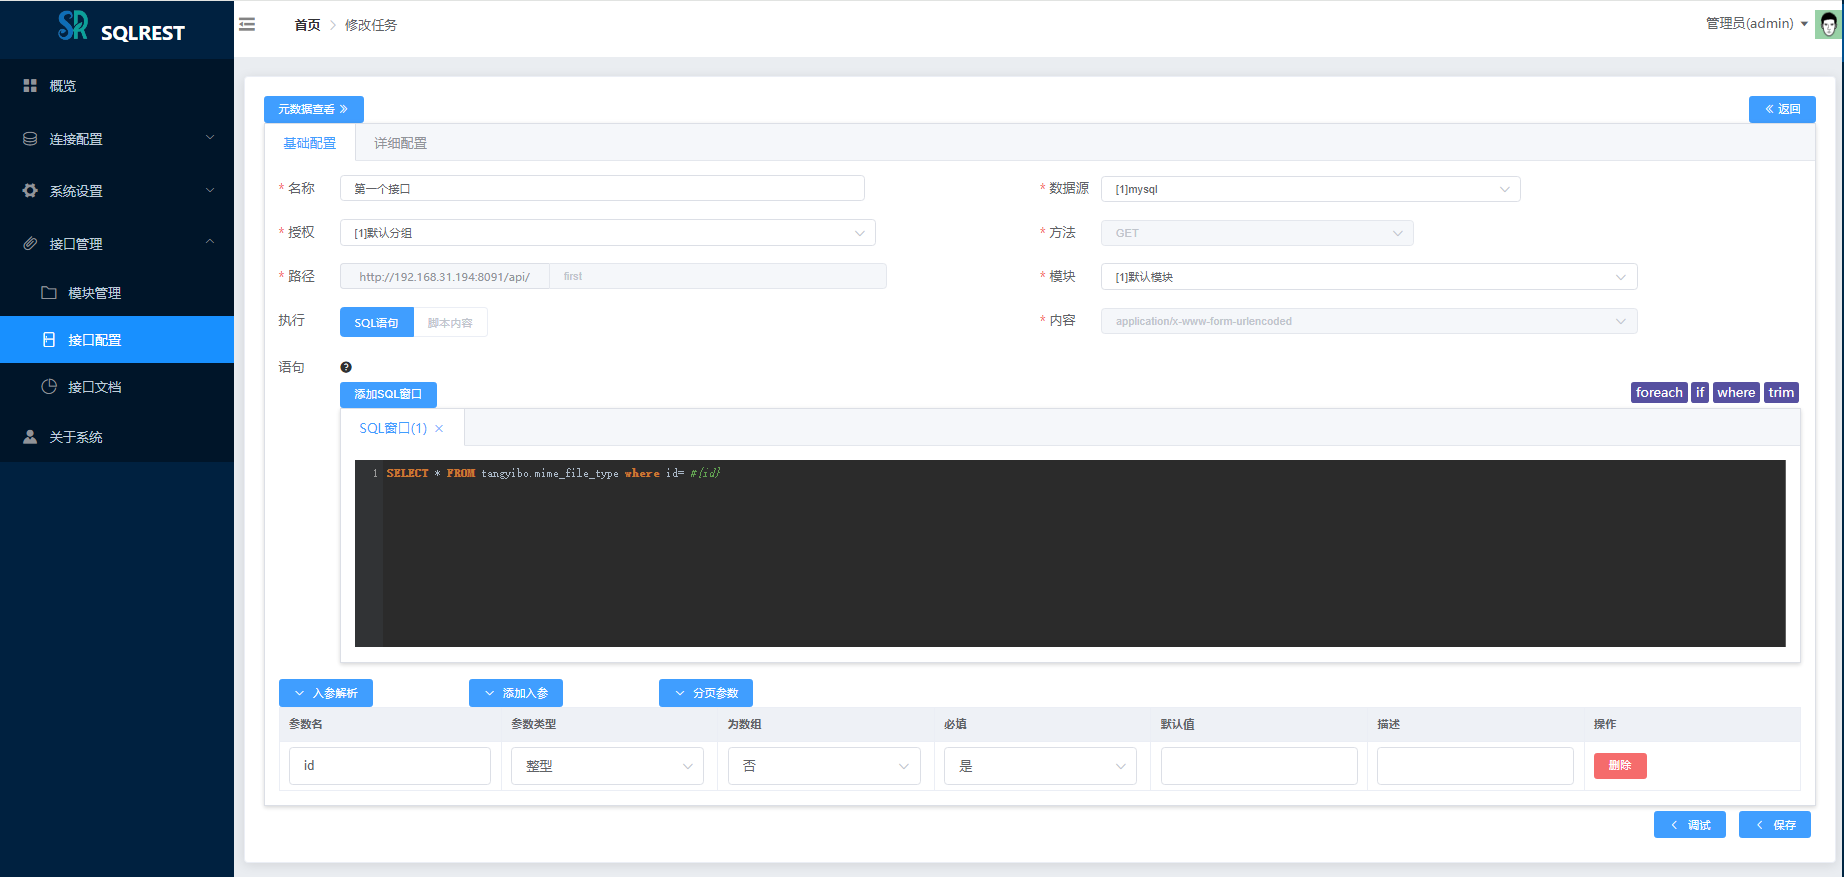
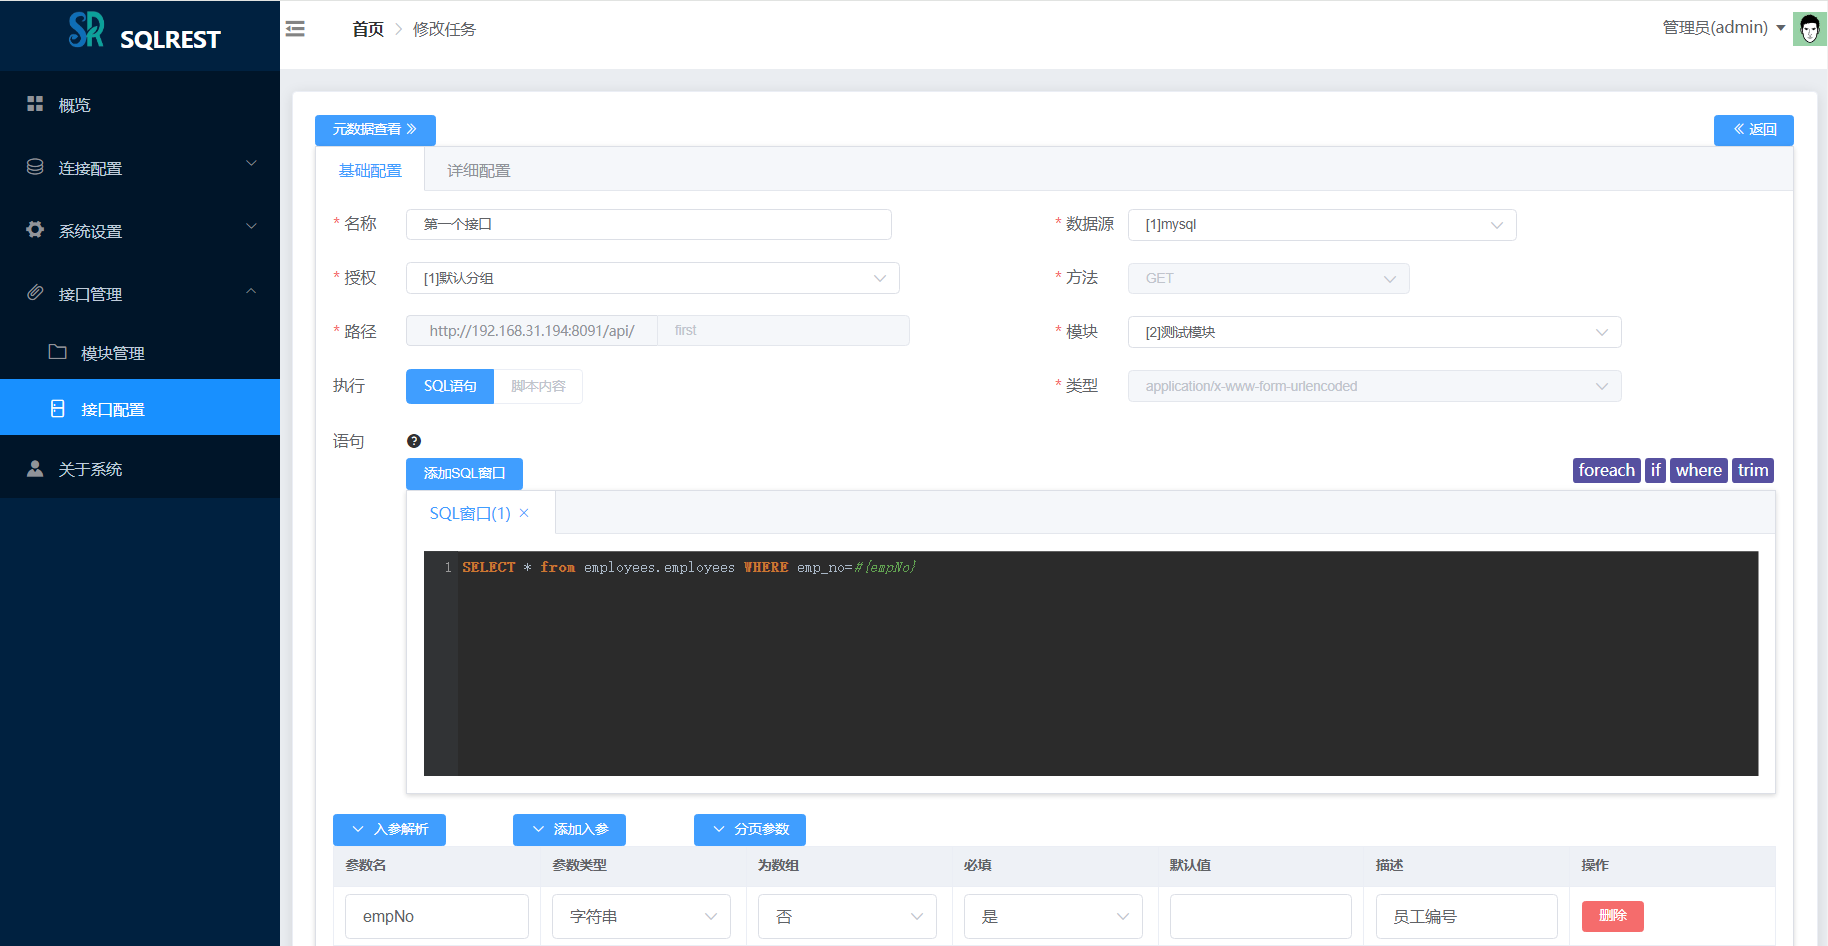
修正元数据查询错误

diff --git a/sqlrest-core/src/main/java/com/gitee/sqlrest/core/service/DataSourceService.java b/sqlrest-core/src/main/java/com/gitee/sqlrest/core/service/DataSourceService.java
@@ -25,7 +25,6 @@ import java.sql.Connection;
 import java.sql.ResultSet;
 import java.sql.Statement;
 import java.util.ArrayList;
-import java.util.Collections;
 import java.util.List;
 import java.util.Objects;
 import java.util.function.Supplier;
@@ -151,6 +150,9 @@ public class DataSourceService {
             dataSourceEntity.getVersion());
     String driverPath = driverPathFile.getAbsolutePath();
     String sqlList = dataSourceEntity.getType().getContext().getSqlSchemaList();
+    if (null == sqlList) {
+      return dataSourceEntity.getType().getContext().getRetSchemaList();
+    }
     List<String> result = new ArrayList<>();
     HikariDataSource ds = DataSourceUtils.getHikariDataSource(dataSourceEntity, driverPath);
     if (StringUtils.isNotBlank(sqlList)) {
@@ -178,7 +180,9 @@ public class DataSourceService {
     List<String> result = new ArrayList<>();
     HikariDataSource ds = DataSourceUtils.getHikariDataSource(dataSourceEntity, driverPath);
     try (Connection connection = ds.getConnection()) {
-      String catalogName = productType.getContext().getAdapter().apply(schema).getLeft();
+      String catalogName = productType.getContext().isHasCatalogAndSchema()
+          ? connection.getCatalog()
+          : productType.getContext().getAdapter().apply(schema).getLeft();
       String schemaName = productType.getContext().getAdapter().apply(schema).getRight();
       try (ResultSet rs = connection.getMetaData()
           .getTables(catalogName, schemaName, "%", new String[]{"TABLE"})) {
@@ -205,7 +209,9 @@ public class DataSourceService {
     List<String> result = new ArrayList<>();
     HikariDataSource ds = DataSourceUtils.getHikariDataSource(dataSourceEntity, driverPath);
     try (Connection connection = ds.getConnection()) {
-      String catalogName = productType.getContext().getAdapter().apply(schema).getLeft();
+      String catalogName = productType.getContext().isHasCatalogAndSchema()
+          ? connection.getCatalog()
+          : productType.getContext().getAdapter().apply(schema).getLeft();
       String schemaName = productType.getContext().getAdapter().apply(schema).getRight();
       try (ResultSet rs = connection.getMetaData()
           .getTables(catalogName, schemaName, "%", new String[]{"VIEW"})) {
@@ -229,7 +235,9 @@ public class DataSourceService {
     List<MetadataColumnResponse> result = new ArrayList<>();
     HikariDataSource ds = DataSourceUtils.getHikariDataSource(dataSourceEntity, driverPath);
     try (Connection connection = ds.getConnection()) {
-      String catalogName = productType.getContext().getAdapter().apply(schema).getLeft();
+      String catalogName = productType.getContext().isHasCatalogAndSchema()
+          ? connection.getCatalog()
+          : productType.getContext().getAdapter().apply(schema).getLeft();
       String schemaName = productType.getContext().getAdapter().apply(schema).getRight();
       try (ResultSet rs = connection.getMetaData()
           .getColumns(catalogName, schemaName, table, null)) {

diff --git a/sqlrest-common/src/main/java/com/gitee/sqlrest/common/enums/ProductTypeEnum.java b/sqlrest-common/src/main/java/com/gitee/sqlrest/common/enums/ProductTypeEnum.java
@@ -63,7 +63,7 @@ public enum ProductTypeEnum {
           .tplUrls(new String[]{"jdbc:oracle:thin:@{host}:{port}:{database}",
               "jdbc:oracle:thin:@//{host}[:{port}]/{database}"})
           .urlSample("jdbc:oracle:thin:@172.17.2.10:1521:ORCL")
-          .sqlSchemaList("SELECT name FROM v$database")
+          .sqlSchemaList("SELECT USERNAME FROM SYS.ALL_USERS")
           .adapter(database -> Pair.of(null, database))
           .pageSql("SELECT * FROM ( SELECT TMP.*, ROWNUM ROW_ID FROM ( %s ) ALIAS WHERE ROWNUM <= ? ) WHERE ROW_ID > ?")
           .build()),
@@ -81,7 +81,8 @@ public enum ProductTypeEnum {
           .urlPrefix("jdbc:sqlserver://")
           .tplUrls(new String[]{"jdbc:sqlserver://{host}[:{port}][;DatabaseName={database}][;{params}]"})
           .urlSample("jdbc:sqlserver://172.17.2.10:1433;DatabaseName=test")
-          .sqlSchemaList("SELECT name FROM sys.databases WHERE state = 0 AND database_id > 4")
+          .sqlSchemaList("select schema_name from INFORMATION_SCHEMA.SCHEMATA")
+          .hasCatalogAndSchema(true)
           .adapter(database -> Pair.of(null, database))
           .pageSql("SELECT * FROM (%s) ALIAS OFFSET ? ROWS FETCH NEXT ? ROWS ONLY")
           .build()),
@@ -139,7 +140,7 @@ public enum ProductTypeEnum {
           .urlPrefix("jdbc:dm://")
           .tplUrls(new String[]{"jdbc:dm://{host}:{port}[/{database}][\\\\?{params}]"})
           .urlSample("jdbc:dm://172.17.2.10:5236")
-          .sqlSchemaList("SHOW SCHEMAS")
+          .sqlSchemaList("SELECT DISTINCT object_name FROM ALL_OBJECTS WHERE OBJECT_TYPE = 'SCH'")
           .adapter(database -> Pair.of(null, database))
           .pageSql("select * from (%s) alias limit ? offset ? ")
           .build()),
@@ -251,7 +252,7 @@ public enum ProductTypeEnum {
           .driver("org.sqlite.JDBC")
           .defaultPort(0)
           .testSql("SELECT 1")
-          .urlPrefix("jdbc:sqlite://")
+          .urlPrefix("jdbc:sqlite:")
           .tplUrls(new String[]{"jdbc:sqlite:{file}", "jdbc:sqlite::resource:{file}"})
           .urlSample("jdbc:sqlite:/tmp/test.db")
           .sqlSchemaList(null)

diff --git a/sqlrest-core/src/main/java/com/gitee/sqlrest/core/servlet/ApiServletService.java b/sqlrest-core/src/main/java/com/gitee/sqlrest/core/servlet/ApiServletService.java
@@ -9,12 +9,12 @@ import com.gitee.sqlrest.core.exec.ApiExecuteService;
 import com.gitee.sqlrest.persistence.dao.ApiAssignmentDao;
 import com.gitee.sqlrest.persistence.entity.ApiAssignmentEntity;
 import java.io.IOException;
-import java.io.PrintWriter;
 import javax.annotation.Resource;
 import javax.servlet.ServletException;
 import javax.servlet.http.HttpServletRequest;
 import javax.servlet.http.HttpServletResponse;
 import lombok.extern.slf4j.Slf4j;
+import org.springframework.http.MediaType;
 import org.springframework.stereotype.Service;
 
 @Slf4j
@@ -28,20 +28,20 @@ public class ApiServletService {
 
   public void process(HttpMethodEnum method, HttpServletRequest request, HttpServletResponse response)
       throws ServletException, IOException {
-    PrintWriter out = response.getWriter();
+    response.setContentType(MediaType.APPLICATION_JSON_VALUE);
     String path = request.getRequestURI().substring(Constants.API_PATH_PREFIX.length() + 2);
     ApiAssignmentEntity apiConfigEntity = apiAssignmentDao.getByUk(method, path);
     if (null == apiConfigEntity || !apiConfigEntity.getStatus()) {
       response.setStatus(HttpServletResponse.SC_NOT_FOUND);
       String message = String.format("/%s/%s[%s]", Constants.API_PATH_PREFIX, path, method.name());
       ResultEntity result = ResultEntity.failed(ResponseErrorCode.ERROR_PATH_NOT_EXISTS, message);
-      out.append(JSONUtil.toJsonStr(result));
+      response.getWriter().append(JSONUtil.toJsonStr(result));
     } else {
       ResultEntity result = apiExecuteService.execute(apiConfigEntity, request, response);
       if (0 != result.getCode()) {
         response.setStatus(HttpServletResponse.SC_INTERNAL_SERVER_ERROR);
       }
-      out.append(JSONUtil.toJsonStr(result));
+      response.getWriter().append(JSONUtil.toJsonStr(result));
     }
   }
 

diff --git a/sqlrest-core/src/main/java/com/gitee/sqlrest/core/dto/SwaggerEntity.java b/sqlrest-core/src/main/java/com/gitee/sqlrest/core/dto/SwaggerEntity.java
@@ -292,6 +292,8 @@ public class SwaggerEntity {
 
     private final String operationId;
 
+    private Map<String,Object> requestBody= new HashMap<>();
+
     private List<String> produces = new ArrayList<>();
 
     private List<String> consumes = new ArrayList<>();
@@ -302,6 +304,13 @@ public class SwaggerEntity {
 
     public Path(String operationId) {
       this.operationId = operationId;
+    }
+
+    public void setRequestBody(String description, String acceptType, Map<String, Object> schema) {
+      Map<String, Object> content = new HashMap<>();
+      content.put(acceptType, schema);
+      requestBody.put("description", description);
+      requestBody.put("content", content);
     }
 
     public void addProduce(String produce) {

diff --git a/sqlrest-common/src/main/java/com/gitee/sqlrest/common/dto/ProductContext.java b/sqlrest-common/src/main/java/com/gitee/sqlrest/common/dto/ProductContext.java
@@ -25,6 +25,7 @@ public class ProductContext {
   private String urlSample;
   private String sqlSchemaList;
   private List<String> retSchemaList;
+  private boolean hasCatalogAndSchema;
   private Function<String, Pair<String, String>> adapter;
   private String pageSql;
 }

diff --git a/sqlrest-core/src/main/java/com/gitee/sqlrest/core/servlet/ApiSwaggerService.java b/sqlrest-core/src/main/java/com/gitee/sqlrest/core/servlet/ApiSwaggerService.java
@@ -24,6 +24,9 @@ import org.springframework.http.MediaType;
 import org.springframework.stereotype.Service;
 import org.springframework.util.CollectionUtils;
 
+/**
+ * https://juejin.cn/post/6996227860058865700
+ */
 @Service
 public class ApiSwaggerService {
 

diff --git a/README.md b/README.md
@@ -44,17 +44,17 @@
 
 ```
 └── sqlrest
-    ├── sqlrest-common                     // sqlrest通用定义模块
-    ├── sqlrest-template                   // sqlrest的SQL内容模板模块
-    ├── sqlrest-script                     // sqlrest的接口脚本解析模块
-    ├── sqlrest-cache                      // sqlrest执行器缓存模块
-    ├── sqlrest-persistence                // sqlrest的数据库持久化模块
-    ├── sqlrest-core                       // sqlrest-core的接口实现模块
-    ├── sqlrest-gateway                    // Gateway网关节点
-    ├── sqlrest-executor                   // Executor接口执行节点
-    ├── sqlrest-manager                    // Manager管理节点
-    ├── sqlrest-manager-ui                 // 基于Vue2的Manager前段WEB交互页面
-    ├── sqlrest-dist                       // 基于maven-assembly-plugin插件的项目打包模块
+    ├── sqlrest-common           // sqlrest通用定义模块
+    ├── sqlrest-template         // sqlrest的SQL内容模板模块
+    ├── sqlrest-script           // sqlrest的接口脚本解析模块
+    ├── sqlrest-cache            // sqlrest执行器缓存模块
+    ├── sqlrest-persistence      // sqlrest的数据库持久化模块
+    ├── sqlrest-core             // sqlrest-core的接口实现模块
+    ├── sqlrest-gateway          // Gateway网关节点
+    ├── sqlrest-executor         // Executor接口执行节点
+    ├── sqlrest-manager          // Manager管理节点
+    ├── sqlrest-manager-ui       // 基于Vue2的Manager前段WEB交互页面
+    ├── sqlrest-dist             // 基于maven-assembly-plugin插件的项目打包模块
 ```
 
 ## 二、编译打包
@@ -104,27 +104,15 @@ sh ./docker-maven-build.sh
 
 - 步骤1：准备好一个MySQL5.7+的数据库，假设连接地址如下：
 
-```
-# mysql的host地址
-MYSQLDB_HOST=127.0.0.1
-
-# mysql的端口号
-MYSQLDB_PORT=3306
-
-# mysql的库名
-MYSQLDB_NAME=sqlrest
-
-# mysql的账号
-MYSQLDB_USERNAME=root
-
-# mysql的密码
-MYSQLDB_PASSWORD=123456
-```
+| mysql的host地址 | mysql的端口号 | mysql的账号 | mysql的密码 |
+| :------| :------ | :------ | :------ |
+| 127.0.0.1 | 3306 | root | 123456 |
 
 - 步骤2：修改sqlrest-relase-x.x.x/conf/config.ini配置文件
 
 ```
-# manager节点的host地址，如果gateway与executor节点与manager不在同一台机器时需要配置manger节点的IP地址
+# manager节点的host地址，如果gateway与executor节点
+# 与manager不在同一台机器时需要配置manger节点的IP地址
 MANAGER_HOST=localhost
 
 
@@ -166,7 +154,7 @@ MYSQLDB_PASSWORD=123456
 
 启动gateway服务：bin/gateway_startup.cmd
 
-> linux下，需按照如下顺序双击脚本启动对应的服务
+> linux下，需按照如下顺序执行脚本启动对应的服务
 
 启动manager服务：sh bin/sqlrestctl.sh start manager
 
